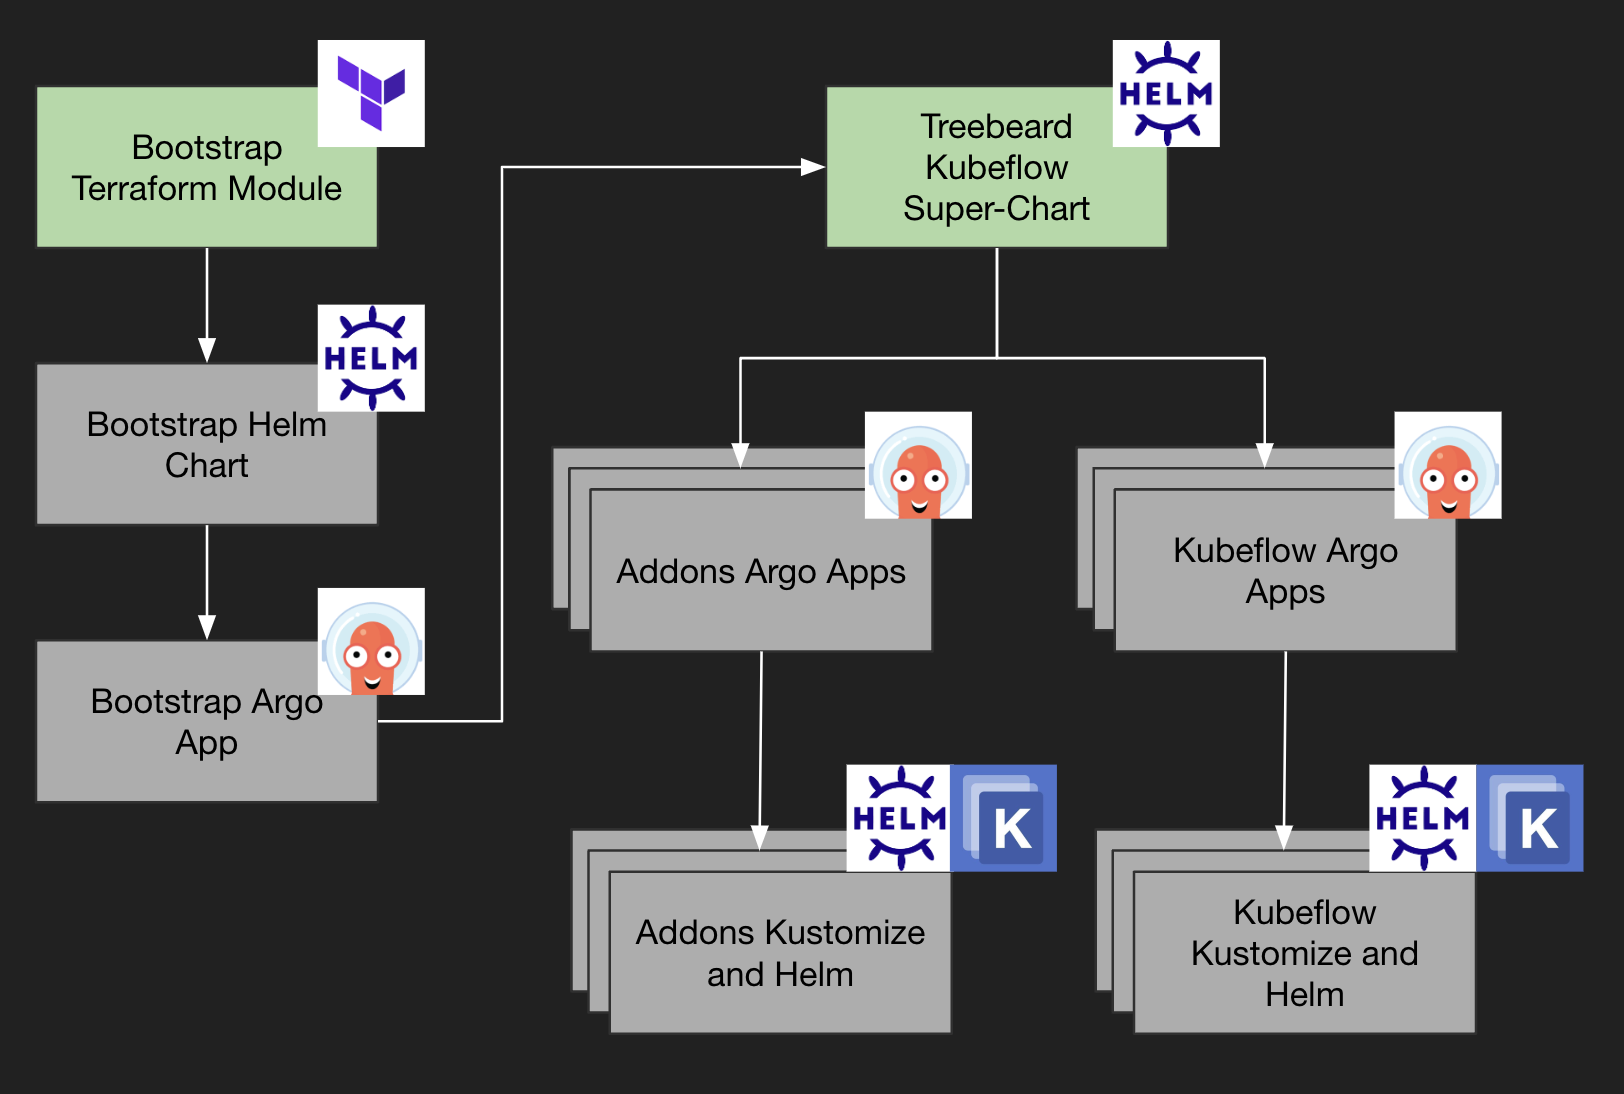
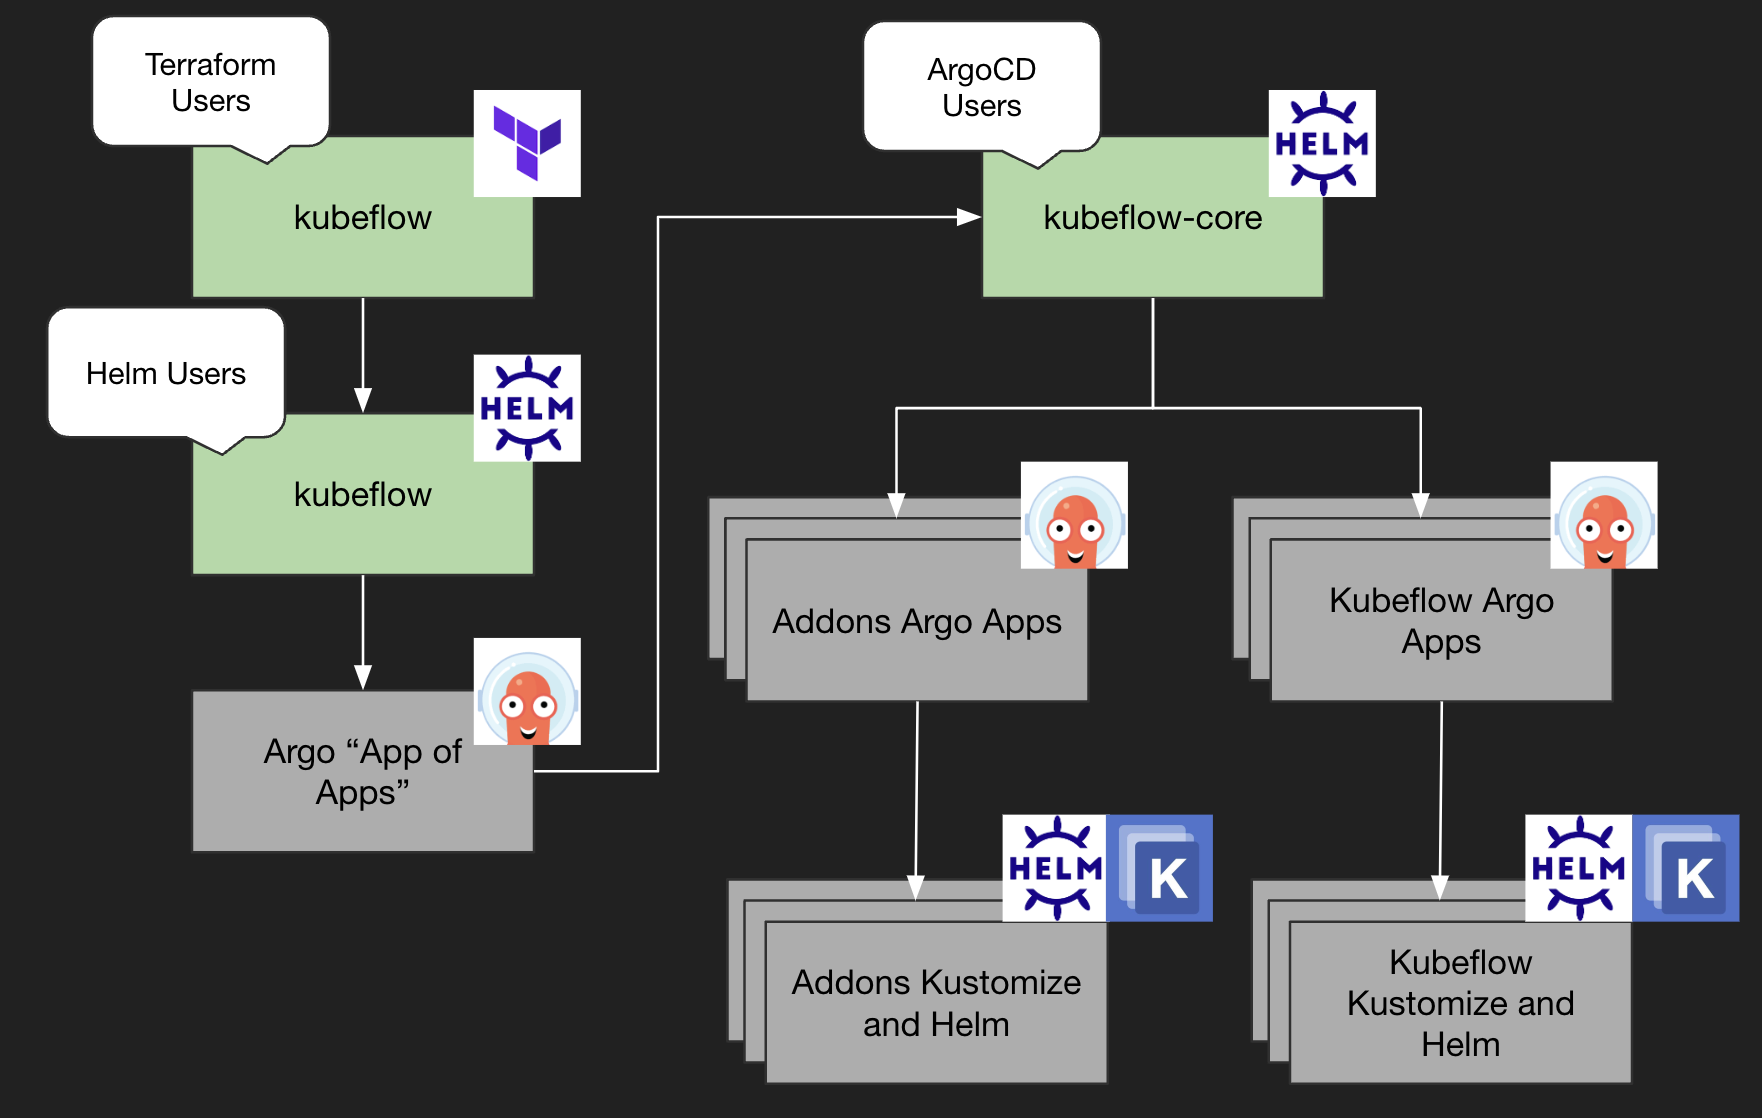
release process (#10)

diff --git a/README.md b/README.md
@@ -24,7 +24,6 @@
 
 ## About this project
 
-
 This project simplifies MLOps in Kubernetes by providing Kubeflow in Helm and Terraform package formats. This allows scaling Kubeflow usage with the rest of your production systems.
 
 Kubeflow provides a cloud-native AI platform which can be used to deploy applications in
@@ -61,7 +60,7 @@ The default configuration of Kubeflow provided is designed to run on a cluster w
 
 ## Getting Started
 
-Note that as all of our examples are implemented in Terraform, we recommend using the Terraform module to start off. The [helm super-chart](https://github.com/treebeardtech/kubeflow/tree/main/helm/treebeard-kubeflow) is likely to be a more viable interface as you move into production.
+Note that as all of our examples are implemented in Terraform, we recommend using the Terraform module to start off. The [helm charts](helm) are likely to be a more viable interface as you move into production.
 
 We recommend trying out this module in a development environment first.
 
@@ -78,7 +77,12 @@ To do so, follow the [k3s tutorial](examples/k3s).
 ### Install via helm CLI
 
 ```sh
-helm install kf oci://ghcr.io/treebeardtech/helm/treebeard-kubeflow --version x.y.z
+# install argo (necessary for orchestration)
+helm repo add argo-cd https://argoproj.github.io/argo-helm
+helm install -n argocd --create-namespace argo-cd argo-cd/argo-cd
+
+# install kubeflow
+helm install kubeflow -n argocd oci://ghcr.io/treebeardtech/helm/kubeflow --version x.y.z
 ```
 
 In order to integrate Kubeflow with your production systems there are some changes you 
@@ -154,7 +158,7 @@ See the [gitops example](examples/k3s-gitops) for details.
 
 ## Troubleshooting
 
-## Reconfiguration challenges
+### Reconfiguration challenges
 
 Moving the deployment between different states of configuration can be challenging
 due to the dependencies between components in the cluster.
